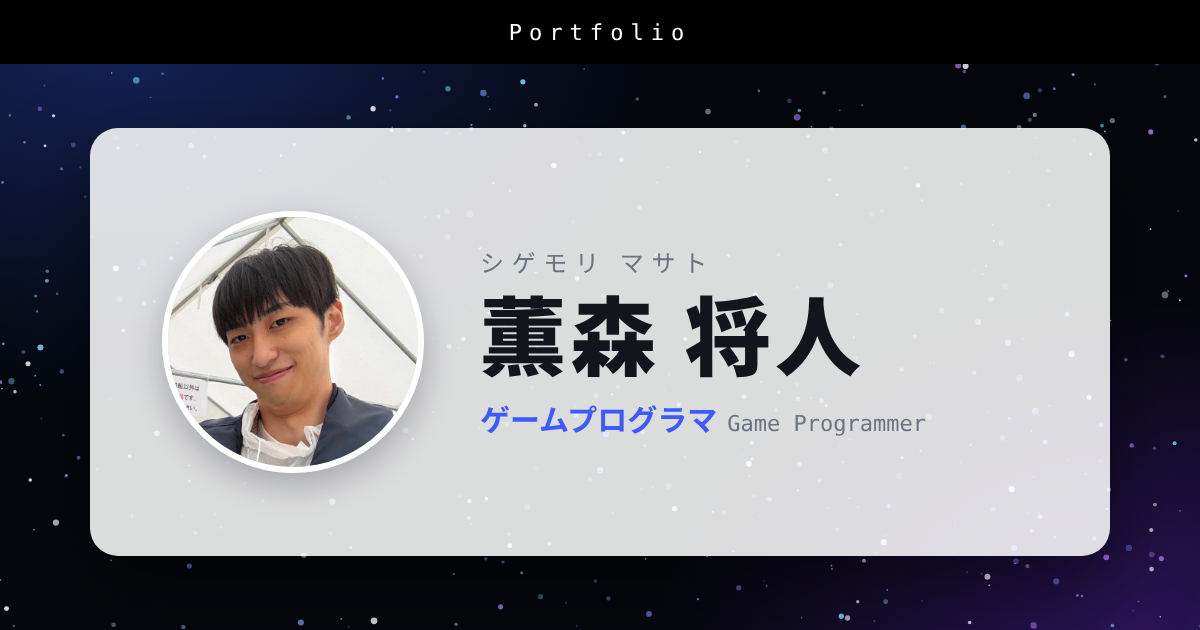
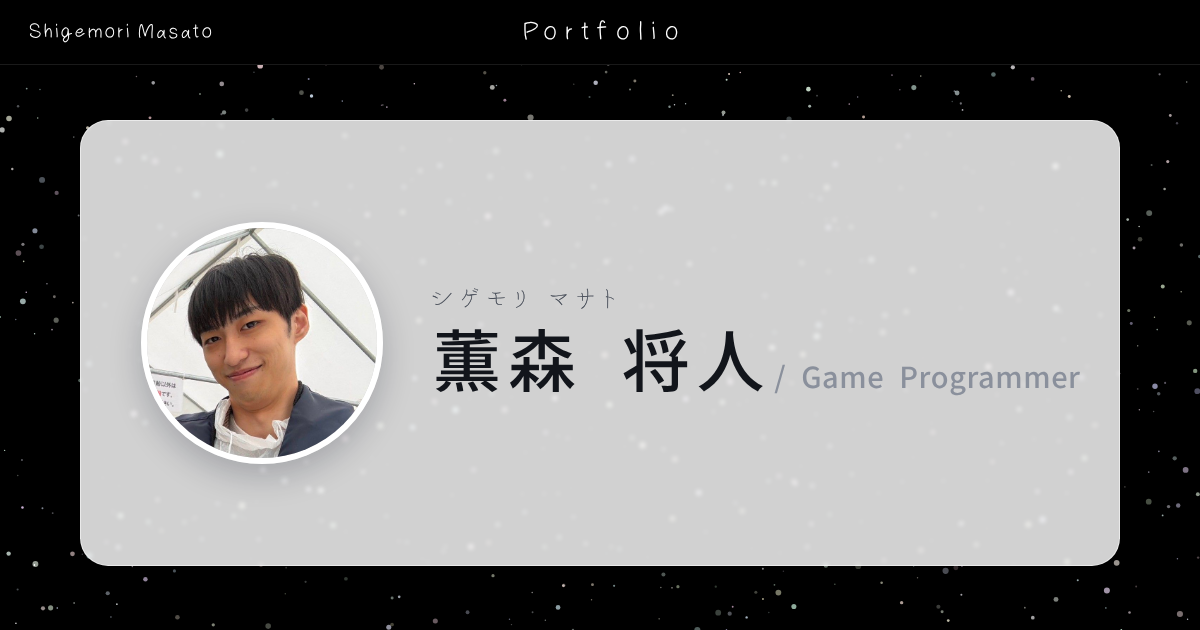
Build profile page, enlarge Home button, default to favorites
- Profile: shared intro component with skills, optional Markdown self-introduction, education and award tables, Steam and music hobby cards
- Home button twice as large; works page opens with Favorite checked; OverTheMoon marked as favorite
- Regenerate OGP image with the current fonts

Claude-Session: https://claude.ai/code/session_01X3bLCSu7a9mNe4M2JPFXQp

diff --git a/assets/css/style.css b/assets/css/style.css
@@ -350,6 +350,47 @@ a:focus-visible, button:focus-visible, .work-card:focus-visible { outline: 2px s
 .tile-arrow { position: absolute; right: 24px; bottom: 26px; font-size: 22px; transition: transform .22s; }
 .tile:hover .tile-arrow { transform: translateX(5px); }
 
+/* ---------- プロフィール ---------- */
+.profile-head { padding-bottom: 0; }
+.profile-head .section-head { margin-bottom: 0; }
+.profile-head + .intro { border-top: 0; padding-top: 24px; }
+.intro-side { margin-left: auto; }
+.skills { list-style: none; margin: 0; padding: 0; display: grid; gap: 10px; }
+.skills li {
+  min-width: 150px;
+  padding: 12px 20px;
+  border: 1.5px solid #12151b;
+  background: rgba(255, 255, 255, .55);
+  text-align: center;
+  font: 14px var(--font-slot3);
+  letter-spacing: .06em;
+  color: var(--text);
+}
+/* 自己紹介文（Markdown） */
+.md-box { padding: 28px 32px; border: 1.5px solid #12151b; background: rgba(255, 255, 255, .55); color: var(--text); font-size: 14px; line-height: 2; }
+.md-box > :first-child { margin-top: 0; }
+.md-box > :last-child { margin-bottom: 0; }
+.md-box h1, .md-box h2, .md-box h3 { margin: 1.4em 0 .5em; line-height: 1.4; color: var(--ink); }
+.md-box a { color: var(--accent-text); text-decoration: underline; }
+/* 経歴 */
+.career-grid { display: grid; grid-template-columns: 1.1fr 1fr; gap: 32px; align-items: start; }
+.career-table { width: 100%; border-collapse: collapse; background: rgba(255, 255, 255, .55); }
+.career-table caption { text-align: left; padding-bottom: 10px; font-family: var(--font-slot1); font-size: 17px; color: var(--ink); }
+.career-table th, .career-table td { padding: 12px 16px; border: 1px solid rgba(18, 21, 27, .35); text-align: left; vertical-align: top; font-size: 13.5px; line-height: 1.7; color: var(--text); }
+.career-table th { width: 72px; font: 14px var(--font-slot5); letter-spacing: .04em; color: var(--ink); white-space: nowrap; }
+.award-work { display: block; margin-top: 2px; font: 11px var(--font-slot3); letter-spacing: .06em; color: var(--muted); }
+/* 趣味 / 特技 */
+.hobby-grid { display: grid; grid-template-columns: 1fr 1fr; gap: 28px; }
+.hobby-card { position: relative; display: flex; flex-direction: column; min-height: 320px; padding: 24px 26px; border-radius: 0; outline: 2px solid #12151b; outline-offset: 4px; }
+.hobby-title { font-family: var(--font-slot6); font-size: clamp(24px, 3vw, 32px); line-height: 1.2; }
+.hobby-steam { justify-content: space-between; background: radial-gradient(circle at 80% 15%, #1b2f55 0, transparent 60%), #0b0d12; color: #fff; transition: transform .25s ease, box-shadow .25s ease; }
+.hobby-steam:hover { transform: translateY(-4px); box-shadow: 0 20px 44px rgba(10, 14, 30, .28); }
+.hobby-icon { width: 120px; height: 75px; align-self: center; opacity: .9; }
+.hobby-arrow { align-self: flex-end; font-size: 22px; transition: transform .22s; }
+.hobby-steam:hover .hobby-arrow { transform: translate(3px, -3px); }
+.hobby-music { gap: 16px; background: rgba(255, 255, 255, .55); color: var(--ink); }
+.hobby-music img { flex: 1; width: 100%; min-height: 200px; object-fit: cover; display: block; }
+
 /* ---------- 画面左下の Home ボタン ---------- */
 .home-fab {
   position: fixed;
@@ -357,14 +398,14 @@ a:focus-visible, button:focus-visible, .work-card:focus-visible { outline: 2px s
   z-index: 35;
   display: grid;
   place-items: center;
-  min-width: 88px;
-  height: 44px;
-  padding: 0 18px;
-  border: 1.5px solid #12151b;
+  min-width: 176px;
+  height: 88px;
+  padding: 0 36px;
+  border: 3px solid #12151b;
   border-radius: 0;
   background: #fff;
   color: #12151b;
-  font: 14px var(--font-slot4);
+  font: 28px var(--font-slot4);
   letter-spacing: .12em;
   box-shadow: 0 8px 24px rgba(0, 0, 0, .35);
   transition: background .18s, color .18s, transform .18s;
@@ -502,6 +543,13 @@ body.dialog-open { overflow: hidden; }
 
 /* ---------- レスポンシブ ---------- */
 @media (max-width: 860px) {
+  .career-grid, .hobby-grid { grid-template-columns: 1fr; }
+  .hobby-card { min-height: 0; }
+  .hobby-steam { min-height: 220px; }
+  .hobby-music img { flex: none; height: auto; aspect-ratio: 3 / 2; min-height: 0; }
+  .intro { flex-wrap: wrap; }
+  .intro-side { margin-left: 0; width: 100%; }
+  .skills { grid-template-columns: repeat(auto-fill, minmax(120px, 1fr)); }
   .doc-card { grid-template-columns: 1fr; }
   .doc-body { padding: 22px 24px; }
   .work-grid { grid-template-columns: repeat(2, 1fr); }

diff --git a/profile.html b/profile.html
@@ -1,9 +1,74 @@
 ---
 layout: default
 title: プロフィール
+description: "薫森将人のプロフィール。経歴、受賞歴、使用技術、趣味を紹介します。"
 permalink: /profile/
 ---
-<section class="section">
+<!-- ========== プロフィール（ホームと同じ部品＋右側に使用技術） ========== -->
+<section class="section profile-head">
   <div class="section-head"><h2>プロフィール</h2></div>
-  <!-- ここにプロフィールの内容を追加してください。画像は images/Profile/ に置くと整理しやすいです -->
+</section>
+{%- capture skills -%}
+<ul class="skills" aria-label="使用技術">
+  <!-- 使用技術を増やすときは li を追加 -->
+  <li>C++</li>
+  <li>DirectX</li>
+</ul>
+{%- endcapture -%}
+{% include intro.html side=skills %}
+
+<!-- ========== 自己紹介文（_includes/profile-about.md に Markdown で書く。空の間は表示しない） ========== -->
+{%- capture about_md -%}{% include profile-about.md %}{%- endcapture -%}
+{%- assign about_html = about_md | markdownify -%}
+{%- assign about_text = about_html | strip_html | strip -%}
+{%- if about_text != "" %}
+<section class="section about-md">
+  <div class="md-box">{{ about_html }}</div>
+</section>
+{%- endif %}
+
+<!-- ========== 経歴 ========== -->
+<section class="section career">
+  <div class="section-head"><h2>経歴</h2></div>
+  <div class="career-grid">
+    <table class="career-table">
+      <caption>学歴</caption>
+      <tbody>
+        <tr><th scope="row">2021</th><td>埼玉県 草加市立 草加中学校 卒業</td></tr>
+        <tr><th scope="row">2021</th><td>埼玉県立 草加南高等学校 普通科 入学</td></tr>
+        <tr><th scope="row">2024</th><td>埼玉県立 草加南高等学校 普通科 卒業</td></tr>
+        <tr><th scope="row">2024</th><td>日本工学院専門学校 ゲームクリエイター科四年制 入学</td></tr>
+        <tr><th scope="row">2028</th><td>日本工学院専門学校 ゲームクリエイター科四年制 卒業見込</td></tr>
+      </tbody>
+    </table>
+    <table class="career-table award-table">
+      <caption>受賞・ノミネート</caption>
+      <tbody>
+        <tr><td>第15回 全国専門学校ゲームコンペティション プレイアブル賞 受賞<span class="award-work">折り画面</span></td></tr>
+        <tr><td>かまたゲームアワード 2025 3Dエンジニア部門 受賞<span class="award-work">折り画面</span></td></tr>
+        <tr><td>かまたゲームアワード 2025 PZL・ADV部門 ノミネート<span class="award-work">折り画面</span></td></tr>
+        <tr><td>かまたゲームアワード 2025 3Dアート部門 ノミネート<span class="award-work">チェインロープ</span></td></tr>
+        <tr><td>かまたゲームアワード 2024 2Dエンジニア部門 ノミネート<span class="award-work">Eyebyss</span></td></tr>
+        <tr><td>かまたゲームアワード 2024 新人部門 ノミネート<span class="award-work">Eyebyss</span></td></tr>
+      </tbody>
+    </table>
+  </div>
+</section>
+
+<!-- ========== 趣味 / 特技 ========== -->
+<section class="section hobby">
+  <div class="section-head"><h2>趣味 / 特技</h2></div>
+  <div class="hobby-grid">
+    <!-- Steam: カード全体がプロフィールへのリンク -->
+    <a class="hobby-card hobby-steam" href="https://steamcommunity.com/profiles/76561199255307693/" target="_blank" rel="noopener noreferrer">
+      <span class="hobby-title">Steam</span>
+      <svg class="hobby-icon" viewBox="0 0 64 40" aria-hidden="true"><path fill="none" stroke="currentColor" stroke-width="2.5" stroke-linejoin="round" d="M14 6h36c6 0 10 5 11 11l2 13c1 5-4 9-8 5l-7-7H16l-7 7c-4 4-9 0-8-5l2-13C4 11 8 6 14 6Z"/><path stroke="currentColor" stroke-width="2.5" stroke-linecap="round" d="M17 14v10M12 19h10"/><circle cx="44" cy="15" r="2.4" fill="currentColor"/><circle cx="50" cy="21" r="2.4" fill="currentColor"/></svg>
+      <span class="hobby-arrow" aria-hidden="true">↗</span>
+    </a>
+    <!-- Music: ドラムの写真 -->
+    <div class="hobby-card hobby-music">
+      <span class="hobby-title">Music</span>
+      <img src="{{ '/images/Profile/Dram.jpg' | relative_url }}" alt="ドラムを演奏している写真" width="1568" height="1042">
+    </div>
+  </div>
 </section>

diff --git a/_includes/intro.html b/_includes/intro.html
@@ -1,0 +1,19 @@
+<!-- 自己紹介（ホームとプロフィールで共通）。右側に何か置くときは include の side に HTML を渡す -->
+<section class="section intro">
+  <img class="intro-photo" src="{{ '/images/Home/Me.jpg' | relative_url }}" alt="薫森 将人の写真" width="160" height="160">
+  <div class="intro-text">
+    <p class="intro-kana">シゲモリ マサト</p>
+    <!-- 名前 / 肩書き / 外部リンクのアイコンを 1 行に並べる -->
+    <div class="intro-line">
+      <h1 class="intro-name"><span class="intro-name-main">薫森 将人</span><span class="intro-role"> / Game Programmer</span></h1>
+      <div class="intro-links">
+        <a class="icon-btn" href="https://github.com/ShigemoriMasato" target="_blank" rel="noopener noreferrer" aria-label="GitHub" title="GitHub"><svg viewBox="0 0 24 24" aria-hidden="true"><path fill="currentColor" d="M12 .9a11.1 11.1 0 0 0-3.51 21.63c.55.1.76-.24.76-.54v-2.1c-3.1.67-3.76-1.32-3.76-1.32-.5-1.29-1.24-1.63-1.24-1.63-1.01-.69.08-.68.08-.68 1.12.08 1.7 1.15 1.7 1.15.99 1.69 2.59 1.2 3.22.92.1-.71.39-1.2.7-1.48-2.48-.28-5.09-1.24-5.09-5.53 0-1.22.44-2.21 1.15-2.99-.12-.28-.5-1.42.11-2.96 0 0 .94-.3 3.05 1.14a10.6 10.6 0 0 1 5.55 0c2.11-1.44 3.05-1.14 3.05-1.14.61 1.54.23 2.68.11 2.96.72.78 1.15 1.77 1.15 2.99 0 4.3-2.62 5.24-5.11 5.52.4.35.75 1.03.75 2.08v3.08c0 .3.2.65.77.54A11.1 11.1 0 0 0 12 .9Z"/></svg></a>
+        <a class="icon-btn" href="https://www.youtube.com/@LE3A_08_%E3%82%B7%E3%82%B2%E3%83%A2%E3%83%AA_%E3%83%9E%E3%82%B5%E3%83%88" target="_blank" rel="noopener noreferrer" aria-label="YouTube チャンネル" title="YouTube"><svg viewBox="0 0 24 24" aria-hidden="true"><path fill="currentColor" d="M23 7.2a3 3 0 0 0-2.1-2.1C19 4.6 12 4.6 12 4.6s-7 0-8.9.5A3 3 0 0 0 1 7.2 31 31 0 0 0 .5 12a31 31 0 0 0 .5 4.8 3 3 0 0 0 2.1 2.1c1.9.5 8.9.5 8.9.5s7 0 8.9-.5a3 3 0 0 0 2.1-2.1 31 31 0 0 0 .5-4.8 31 31 0 0 0-.5-4.8ZM9.7 15.1V8.9L15.2 12l-5.5 3.1Z"/></svg></a>
+        <a class="icon-btn" href="mailto:ktm65535@gmail.com" aria-label="メールを送る" title="Mail"><svg viewBox="0 0 24 24" aria-hidden="true"><path fill="none" stroke="currentColor" stroke-width="1.8" stroke-linejoin="round" d="M3.5 5.5h17v13h-17z M3.5 6l8.5 7 8.5-7"/></svg></a>
+      </div>
+    </div>
+  </div>
+  {%- if include.side %}
+  <div class="intro-side">{{ include.side }}</div>
+  {%- endif %}
+</section>

diff --git a/index.html b/index.html
@@ -1,22 +1,7 @@
 ---
 layout: default
 ---
-<!-- 自己紹介 -->
-<section class="section intro">
-  <img class="intro-photo" src="{{ '/images/Home/Me.jpg' | relative_url }}" alt="薫森 将人の写真" width="160" height="160">
-  <div class="intro-text">
-    <p class="intro-kana">シゲモリ マサト</p>
-    <!-- 名前 / 肩書き / 外部リンクのアイコンを 1 行に並べる -->
-    <div class="intro-line">
-      <h1 class="intro-name"><span class="intro-name-main">薫森 将人</span><span class="intro-role"> / Game Programmer</span></h1>
-      <div class="intro-links">
-        <a class="icon-btn" href="https://github.com/ShigemoriMasato" target="_blank" rel="noopener noreferrer" aria-label="GitHub" title="GitHub"><svg viewBox="0 0 24 24" aria-hidden="true"><path fill="currentColor" d="M12 .9a11.1 11.1 0 0 0-3.51 21.63c.55.1.76-.24.76-.54v-2.1c-3.1.67-3.76-1.32-3.76-1.32-.5-1.29-1.24-1.63-1.24-1.63-1.01-.69.08-.68.08-.68 1.12.08 1.7 1.15 1.7 1.15.99 1.69 2.59 1.2 3.22.92.1-.71.39-1.2.7-1.48-2.48-.28-5.09-1.24-5.09-5.53 0-1.22.44-2.21 1.15-2.99-.12-.28-.5-1.42.11-2.96 0 0 .94-.3 3.05 1.14a10.6 10.6 0 0 1 5.55 0c2.11-1.44 3.05-1.14 3.05-1.14.61 1.54.23 2.68.11 2.96.72.78 1.15 1.77 1.15 2.99 0 4.3-2.62 5.24-5.11 5.52.4.35.75 1.03.75 2.08v3.08c0 .3.2.65.77.54A11.1 11.1 0 0 0 12 .9Z"/></svg></a>
-        <a class="icon-btn" href="https://www.youtube.com/@LE3A_08_%E3%82%B7%E3%82%B2%E3%83%A2%E3%83%AA_%E3%83%9E%E3%82%B5%E3%83%88" target="_blank" rel="noopener noreferrer" aria-label="YouTube チャンネル" title="YouTube"><svg viewBox="0 0 24 24" aria-hidden="true"><path fill="currentColor" d="M23 7.2a3 3 0 0 0-2.1-2.1C19 4.6 12 4.6 12 4.6s-7 0-8.9.5A3 3 0 0 0 1 7.2 31 31 0 0 0 .5 12a31 31 0 0 0 .5 4.8 3 3 0 0 0 2.1 2.1c1.9.5 8.9.5 8.9.5s7 0 8.9-.5a3 3 0 0 0 2.1-2.1 31 31 0 0 0 .5-4.8 31 31 0 0 0-.5-4.8ZM9.7 15.1V8.9L15.2 12l-5.5 3.1Z"/></svg></a>
-        <a class="icon-btn" href="mailto:ktm65535@gmail.com" aria-label="メールを送る" title="Mail"><svg viewBox="0 0 24 24" aria-hidden="true"><path fill="none" stroke="currentColor" stroke-width="1.8" stroke-linejoin="round" d="M3.5 5.5h17v13h-17z M3.5 6l8.5 7 8.5-7"/></svg></a>
-      </div>
-    </div>
-  </div>
-</section>
+{% include intro.html %}
 
 <!-- 各ページへのボタン（左: 制作作品 / 右上: プロフィール / 右下: 説明資料） -->
 <section class="section home">

diff --git a/works.html b/works.html
@@ -19,7 +19,7 @@ permalink: /works/
             <button class="seg-btn" type="button" data-filter="engine" aria-pressed="false">ENGINE</button>
           </div>
           <!-- お気に入りだけ表示 -->
-          <label class="fav-check"><input type="checkbox" id="fav-only"><span>Favorite</span></label>
+          <label class="fav-check"><input type="checkbox" id="fav-only" checked><span>Favorite</span></label>
           <!-- 並び替え（どこを押しても反対側に切り替わる） -->
           <button class="sort-switch" id="sort-order" type="button" data-order="desc" aria-label="並び順: 新しい順。押すと古い順に切り替え">
             <span class="sort-thumb" aria-hidden="true"></span>
@@ -45,7 +45,7 @@ permalink: /works/
           </div>
         </article>
         -->
-        <article class="work-card" data-number="1" data-category="game" data-title="OvertheMoon" data-date="2024/06/28" data-period="2024" data-description="シンプルなシューティングゲームです" data-image="{{ '/images/games/OvertheMoon.png' | relative_url }}" data-video="https://youtu.be/5C-tGyxAC4I" data-github="" data-download="https://drive.google.com/file/d/1lD6pB8lApVHoUtXiOfPhx6_xKZjMroHJ/view?usp=drive_link">
+        <article class="work-card" data-number="1" data-category="game" data-favorite="true" data-title="OvertheMoon" data-date="2024/06/28" data-period="2024" data-description="シンプルなシューティングゲームです" data-image="{{ '/images/games/OvertheMoon.png' | relative_url }}" data-video="https://youtu.be/5C-tGyxAC4I" data-github="" data-download="https://drive.google.com/file/d/1lD6pB8lApVHoUtXiOfPhx6_xKZjMroHJ/view?usp=drive_link">
           <div class="work-image" style="background-image:url('{{ '/images/games/OvertheMoon.png' | relative_url }}')"></div>
           <div class="work-body">
             <div class="work-meta"><span>GAME</span><span>2024</span></div>

diff --git a/_includes/profile-about.md b/_includes/profile-about.md
@@ -1,0 +1,11 @@
+<!--
+  プロフィールページの自己紹介文です。Markdown で書けます。
+  ここに文章を書くと、プロフィールページの「プロフィール」の下に表示されます。
+  （このコメントだけの間は、ページには何も表示されません）
+
+  書き方の例:
+  ## 自己紹介
+  ゲームの手触りを支える仕組みを作るのが好きです。
+  - 好きな分野: 描画、最適化
+  - **太字** や [リンク](https://example.com) も使えます
+-->
